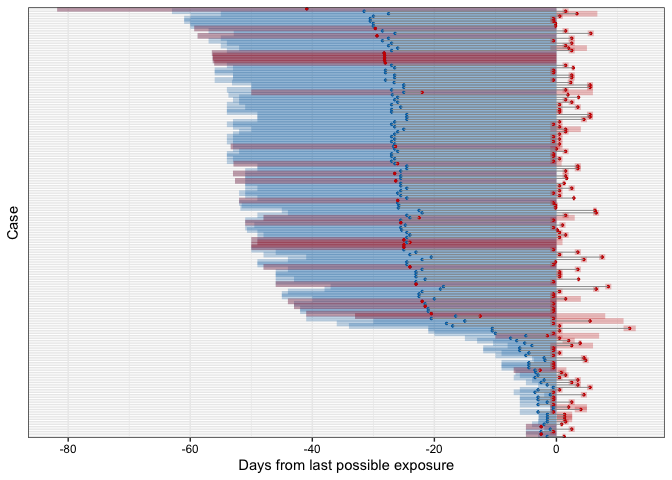
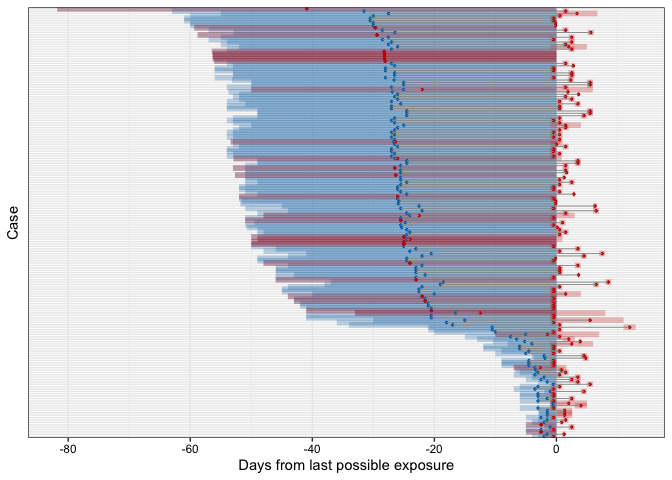
updated 2019-nCoV to COVID-19 with a few extra cases

Changed region(s): [[0.2812, 0.0312, 0.9375, 0.9375]]

diff --git a/README.md b/README.md
@@ -3,7 +3,7 @@
 Real-time estimation of the novel coronavirus incubation time
 =============================================================
 
-Updated: Thu Feb 27 16:26:31 2020
+Updated: Thu Feb 27 19:18:17 2020
 
 [Read the medRxiv
 preprint](https://www.medrxiv.org/content/10.1101/2020.02.02.20020016v1)
@@ -36,11 +36,11 @@ Quick links:
 Data summary
 ------------
 
-There are 175 cases from 48 countries and provinces outside of Hubei,
-China. Of those 64 are known to be female (37%) and 107 are male (61%).
-The median age is about 44.5 years (IQR: 34-55). 76 cases are from
-Mainland China (43%), while 99 are from the rest of the world (57%). 98
-cases presented with a fever (56%).
+There are 181 cases from 49 countries and provinces outside of Hubei,
+China. Of those 69 are known to be female (38%) and 108 are male (60%).
+The median age is about 44.5 years (IQR: 34-55.5). 81 cases are from
+Mainland China (45%), while 100 are from the rest of the world (55%). 99
+cases presented with a fever (55%).
 
 <img src="README_files/figure-markdown_strict/data-summary-1.png" alt="This figure displays the exposure and symptom onset windows for each case in our dataset, relative to the right-bound of the exposure window (ER). The blue bars indicate the the exposure windows and the red bars indicate the symptom onset windows for each case. Purple areas are where those two bars overlap."  />
 <p class="caption">
@@ -268,28 +268,28 @@ distributions.
 <tr class="odd">
 <td style="text-align: left;">JHU-IDD</td>
 <td style="text-align: center;">log-normal</td>
-<td style="text-align: right;">175</td>
+<td style="text-align: right;">181</td>
 <td style="text-align: right;">1.65</td>
 <td style="text-align: right;">0.40</td>
 </tr>
 <tr class="even">
 <td style="text-align: left;">JHU-IDD</td>
 <td style="text-align: center;">gamma</td>
-<td style="text-align: right;">175</td>
+<td style="text-align: right;">181</td>
 <td style="text-align: right;">6.34</td>
 <td style="text-align: right;">0.89</td>
 </tr>
 <tr class="odd">
 <td style="text-align: left;">JHU-IDD</td>
 <td style="text-align: center;">Weibull</td>
-<td style="text-align: right;">175</td>
+<td style="text-align: right;">181</td>
 <td style="text-align: right;">2.55</td>
 <td style="text-align: right;">6.38</td>
 </tr>
 <tr class="even">
 <td style="text-align: left;">JHU-IDD</td>
 <td style="text-align: center;">Erlang</td>
-<td style="text-align: right;">175</td>
+<td style="text-align: right;">181</td>
 <td style="text-align: right;">7.00</td>
 <td style="text-align: right;">0.82</td>
 </tr>
